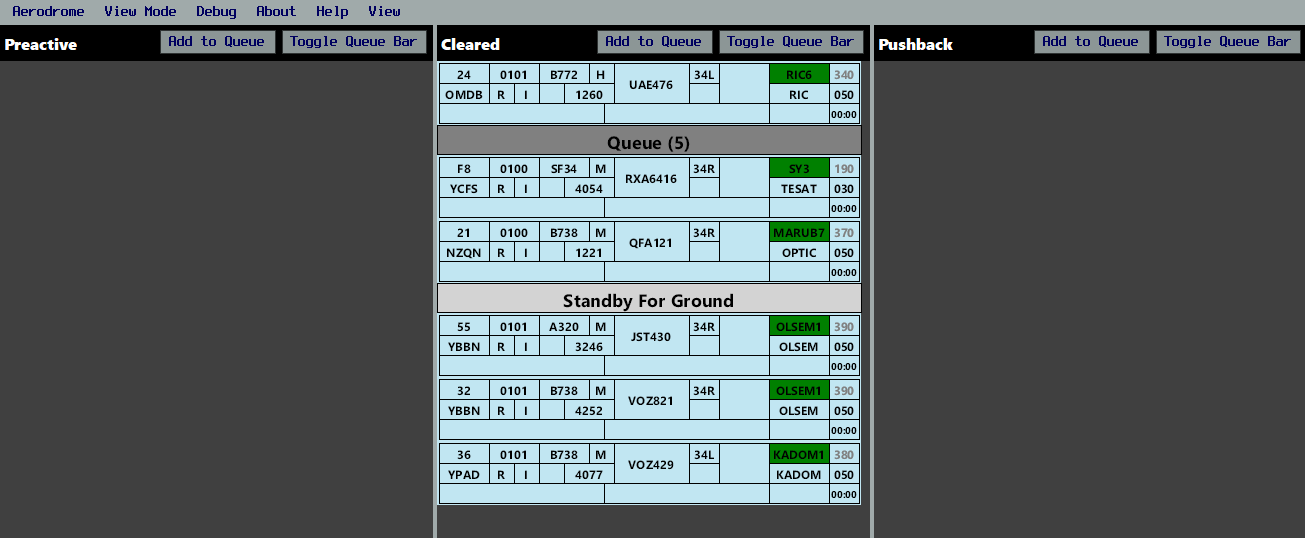
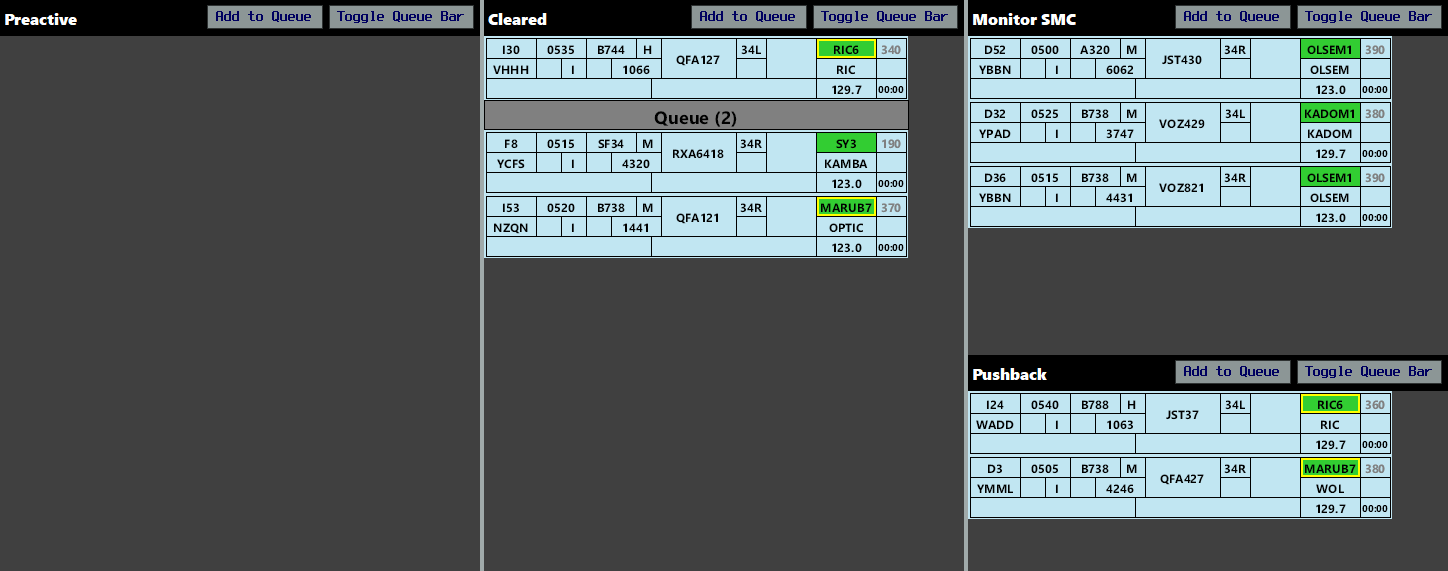
Update Coordinator process & screenshot

diff --git a/docs/controller-skills/grounddelaymanagement.md b/docs/controller-skills/grounddelaymanagement.md
@@ -101,7 +101,7 @@ To commence the procedure:
 
 1. **SMC** and **ACD** coordinate to implement the procedure, due to high **SMC** workload.
 2. **SMC** coordinates with **ADC** in order to have the ATIS updated (see each aerodrome's page).
-3. **ACD** places the `STANDBY FOR GROUND` bar in the **Cleared Bay** in [OzStrips](../client/towerstrips.md#coordinator).
+3. **ACD** enables the **Monitor SMC Bay** in [OzStrips](../client/towerstrips.md#coordinator).
 
 !!! phraseology
     <span class="hotline">**ML SMC** -> **ML ACD**</span>: "It's getting quite busy. Happy to implement Pushback requests on your frequency?"  
@@ -117,10 +117,15 @@ To operate with pushback requests on ACD:
 1. When **ACD** has finished issuing an airways clearance, they will **remind** pilots to *"Contact me when ready for pushback/taxi"*.
 2. When a pilot requests pushback, **ACD** will assess their priority based on apron congestion and number of aircraft in the queue (see [Queue Management](#queue-management)).  
 3. **ACD** will either instruct them to **standby for Ground** *(not contact)*, or remain on the ACD frequency if a delay is required.  
-4. If an aircraft is instructed to 'standby for Ground', **ACD** will move the strip below the **Standby for Ground** bar in the **Queue** section of the **Cleared Bay** in [OzStrips](../client/towerstrips.md#coordinator), to denote they are awaiting pushback approval.  
-5. When **SMC** has adequate space on the aprons, taxiways, and holding points, they will issue pushback/taxi to the next aircraft in line by scanning the [Cleared Queue bay](../client/towerstrips/#stripboard).
+4. If an aircraft is instructed to 'standby for Ground', **ACD** will move the strip into the **Monitor SMC Bay** in [OzStrips](../client/towerstrips.md#coordinator), to denote they are awaiting pushback approval.  
+5. When **SMC** has adequate space on the aprons, taxiways, and holding points, they will issue pushback/taxi to the next aircraft in line by scanning the [Cleared Bay queue](../client/towerstrips/#stripboard).
 
 The decision whether or not to send an aircraft to SMC or hold them on the ACD frequency should be made in accordance with the [Queue Management](#queue-management) techniques.
+
+!!! note
+    The main function of the Coordinator role is to **reduce SMC's workload**. Generally, this involves reducing frequency congestion and metering the flow of departing traffic, however each situation is different and will require a unique approach.
+    
+    E.g. if SMC East at YSSY is busy but SMC West is quiet and there's no upline flow requirements, it may be appropriate to process aircraft on the international aprons while temporarily delaying aircraft on the domestic aprons.
 
 !!! warning "Important"
     If SMC needs to reduce the pushback rate due to congestion at the holding points or excessive workload, **ACD** should be informed without delay, and instructed to hold all departures on their frequency. This will stop aircraft being told to 'standby for ground' on the SMC frequency. Remember to cancel this requirement when congestion eases.

diff --git a/docs/client/towerstrips.md b/docs/client/towerstrips.md
@@ -247,7 +247,9 @@ Once all coordination has been completed and the Coordinator position has been o
 
 Enable the **Monitor SMC Bay** by selecting **View** > **Toggle Monitor SMC Bay**. Any strips in this bay respresent aircraft who have been instructed to standby for ground on the appropriate SMC frequency. Aircraft who are ready for pushback or taxi, but have not been told to monitor SMC, are queued in the **Cleared Bay**.
 
-Ensure that no more than **three** strips are ever present in the **Monitor SMC Bay**. When SMC takes a strip from the bay and places it in the **Pushback** or **Taxi Bay**, instruct the aircraft next in line to monitor SMC, and move them to the bay.
+As a general rule, ensure that no more than **three** strips are present in the **Monitor SMC Bay**. When SMC takes a strip from the bay and places it in the **Pushback** or **Taxi Bay**, instruct the aircraft next in line to monitor SMC, and move them to the bay.
+
+See [Pushback Requests on ACD](../controller-skills/grounddelaymanagement.md#pushback-requests-on-acd) for detailed Coordinator decision-making procedures.
 
 <figure markdown>
 ![Coordinator](./img/ozstripscoordinator.png){ width="800" }
